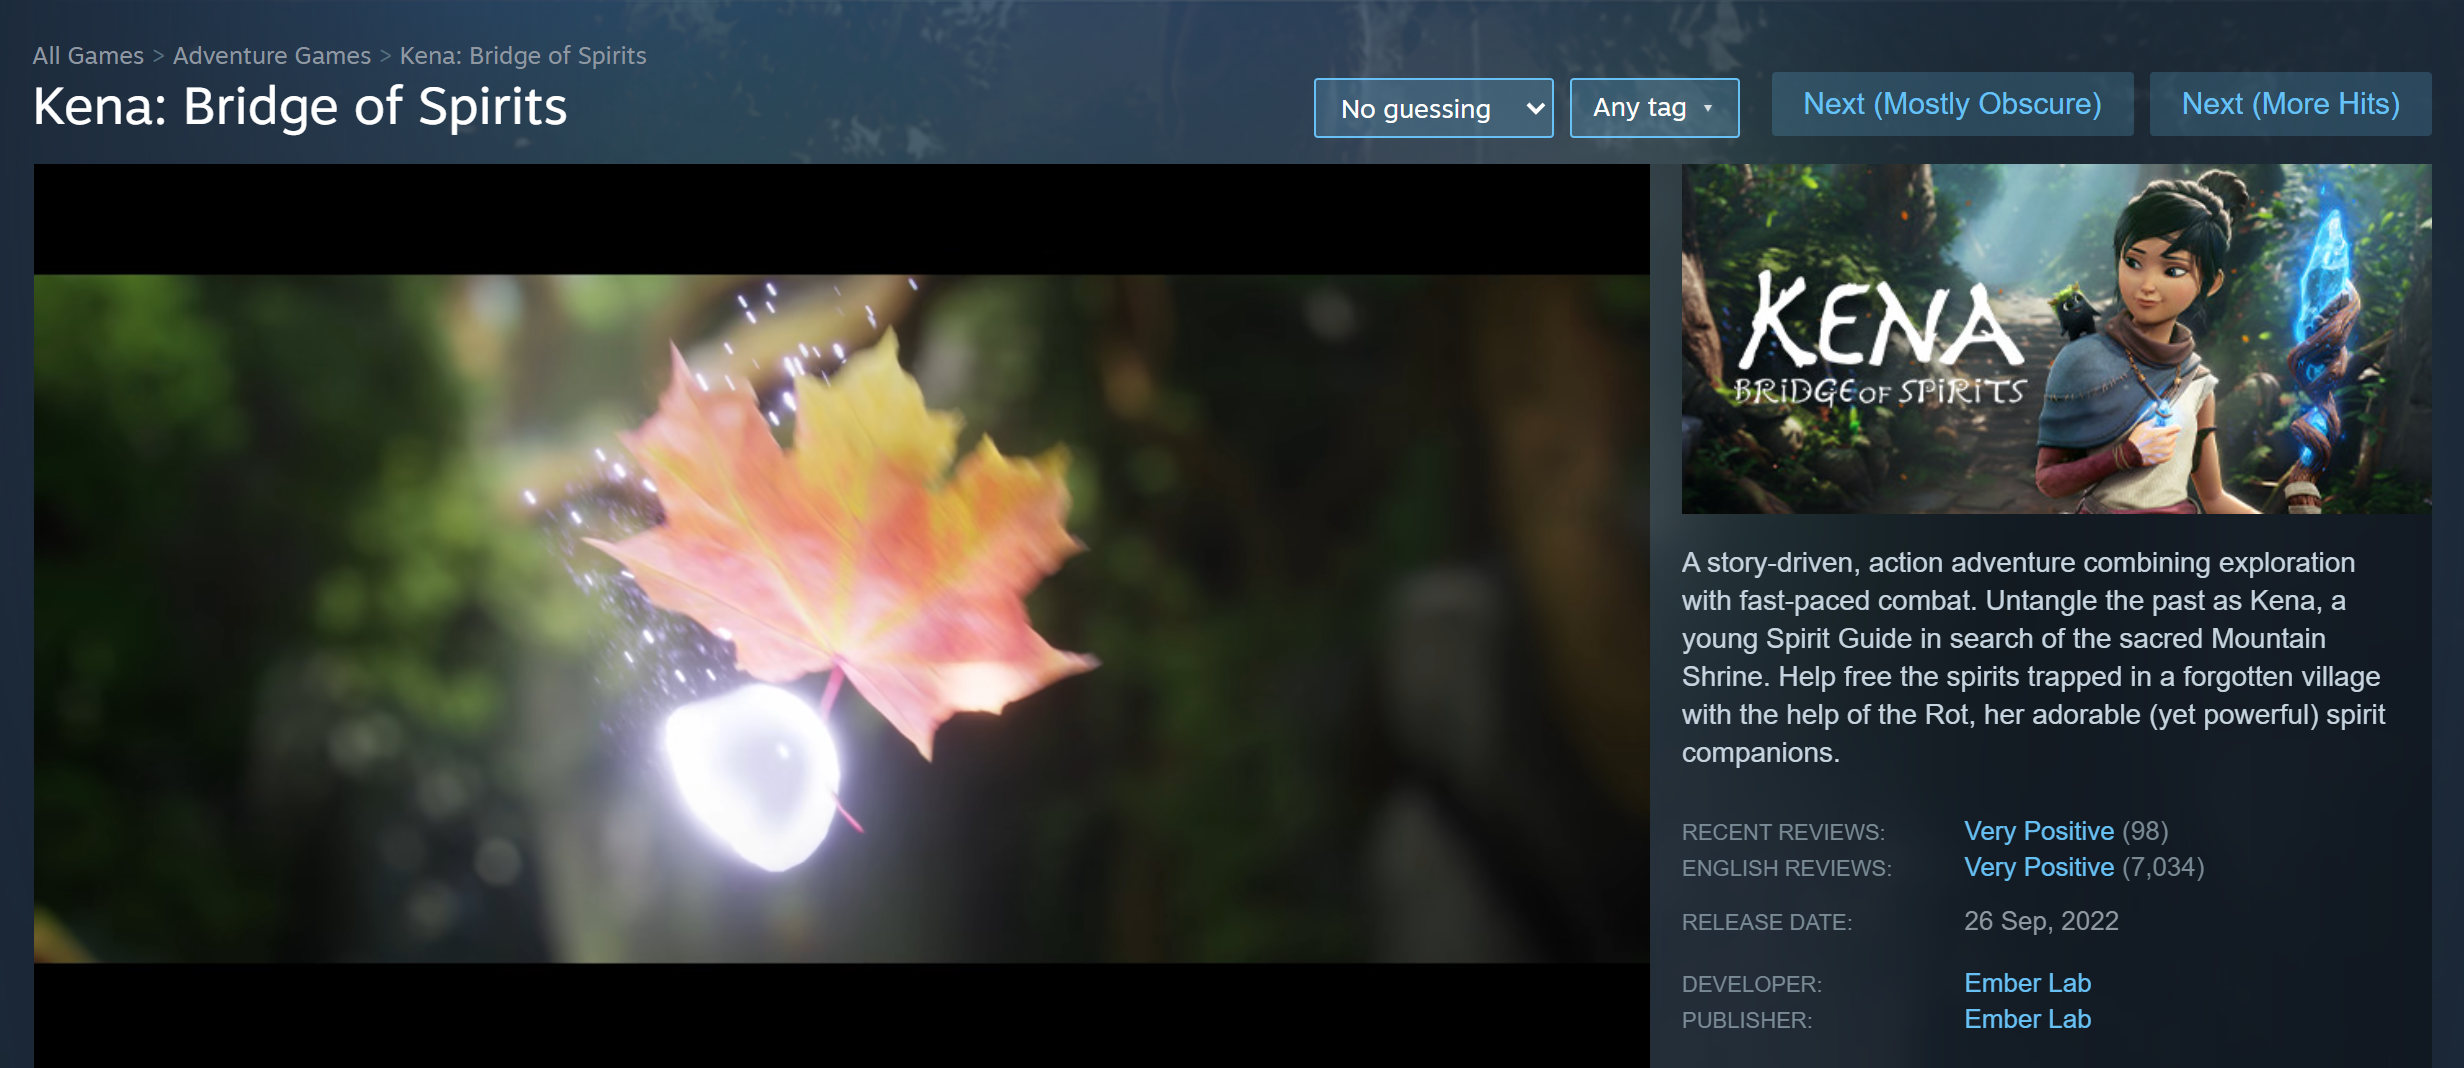
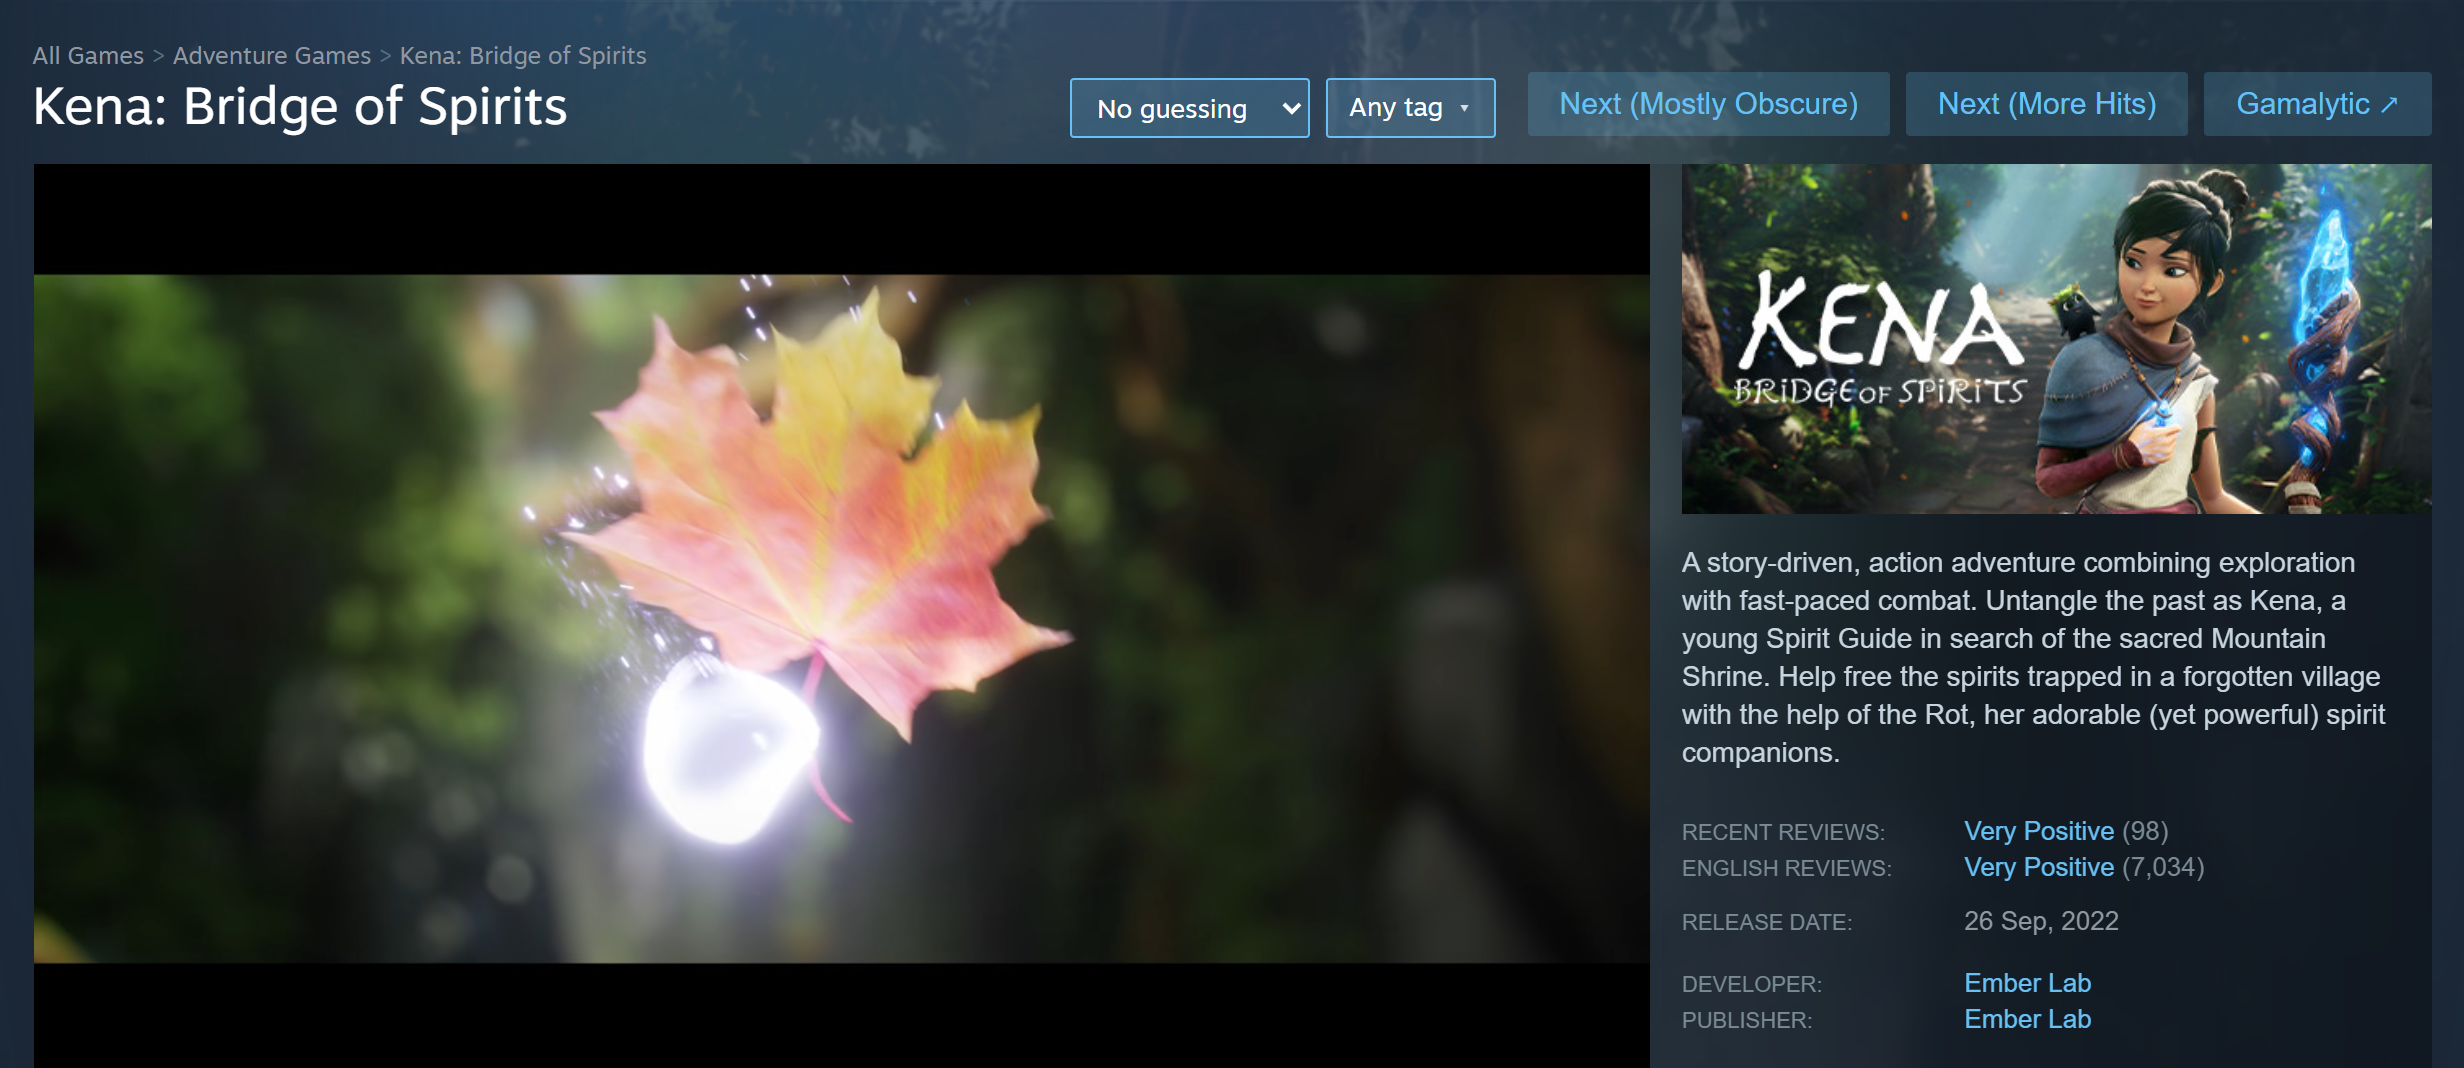
Add a Gamalytic link to the header
"Gamalytic ↗" after the Next buttons opens gamalytic.com/game/<appid>
in a new tab (sales, revenue and player estimates). The tooltip warns
that the page shows the review count.

README: feature bullet, install check, refreshed header screenshots.

diff --git a/src/nextGame.js b/src/nextGame.js
@@ -627,6 +627,34 @@
         container.appendChild(makeTagPicker());
         container.appendChild(pureBtn);
         container.appendChild(smartBtn);
+
+        const gamalytic = makeGamalyticLink();
+        if (gamalytic) container.appendChild(gamalytic);
+    }
+
+    /**
+     * Link to this game's sales/revenue/player estimates on Gamalytic.
+     * Its page shows the review count, so the tooltip says so.
+     *
+     * @returns {HTMLAnchorElement|null}
+     */
+    function makeGamalyticLink() {
+        const appid = getCurrentAppId();
+        if (!appid) return null;
+
+        const a = document.createElement("a");
+        a.className = "btnv6_blue_hoverfade btn_medium ext-gamalytic";
+        a.href = `https://gamalytic.com/game/${appid}`;
+        a.target = "_blank";
+        a.rel = "noopener noreferrer";
+        a.title =
+            "Sales estimates, revenue and player stats on gamalytic.com (new tab). " +
+            "Spoiler: it shows the review count.";
+
+        const span = document.createElement("span");
+        span.textContent = "Gamalytic ↗";
+        a.appendChild(span);
+        return a;
     }
 
     // Expose on namespace

diff --git a/content.css b/content.css
@@ -116,7 +116,8 @@ html:not(.ext-guesser-off) .ext-mask-reviews > *:not(.ext-steam-guess) {
 }
 
 /* Small gap between our two Next Game buttons */
-.ext-next-game + .ext-next-game {
+.ext-next-game + .ext-next-game,
+.ext-next-game + .ext-gamalytic {
   margin-left: 8px;
 }
 

diff --git a/README.md b/README.md
@@ -9,6 +9,7 @@
 **Added here**
 - **Multi-tag filter.** A searchable tag picker next to the Next buttons. Pick as many tags as you like (e.g. Third Person + Combat + Indie) and both Next buttons only send you to games that have all of them. See [Tag Filter](#tag-filter) for a screenshot and details.
 - **Guessing modes.** A dropdown in the page header: **Guessing** (the classic game), **Guessing + review comments** (guess, but read what players wrote; totals and scores stay hidden), or **No guessing** (the normal Steam page). No more going to `chrome://extensions` to read reviews. See [Guessing Modes](#guessing-modes).
+- **Gamalytic link.** A **Gamalytic ↗** button at the end of the header row opens the game's [Gamalytic](https://gamalytic.com) page in a new tab: estimated copies sold, revenue, players and more. Handy after you guess. *(Spoiler: that page shows the review count.)*
 - **Clearer button names.** "Next (Raw)" is now **Next (Mostly Obscure)** and "Next (Balanced)" is now **Next (More Hits)**, each with a tooltip saying how it picks. See [Random Game Navigation](#random-game-navigation).
 - **Fixed: Steam pages freezing.** Some pages, especially ones still loading or pre-purchase games with no reviews yet, hung with Chrome's "Page unresponsive" dialog. The extension's review-count watcher was triggering itself in an endless loop. It now checks at most every 100 ms, and only one check runs per page.
 
@@ -127,7 +128,7 @@ It is not my plan to work on this too much more so if you'd like to see these li
   - Check if:
     - Review counts are replaced with guess buttons.
     - The **Next (Mostly Obscure)** and **Next (More Hits)** buttons appear at the top of the page.
-    - The **Guessing** dropdown and the tag button (**Any tag** until you pick some) appear next to them.
+    - The **Guessing** dropdown and the tag button (**Any tag** until you pick some) appear before them, and **Gamalytic ↗** after them.
 
 ---
 
